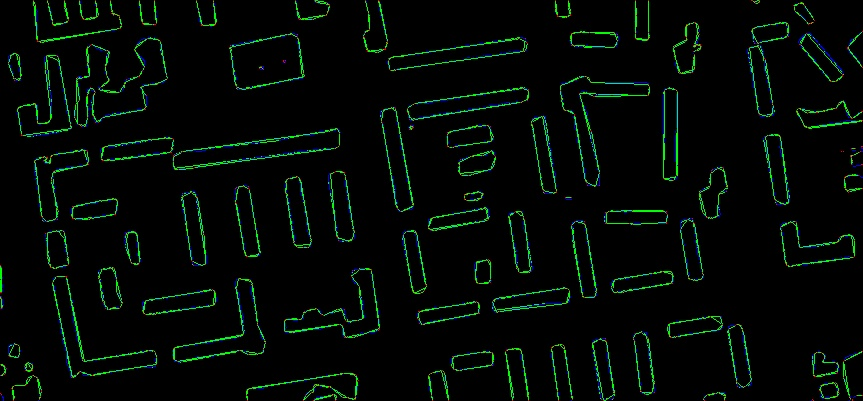
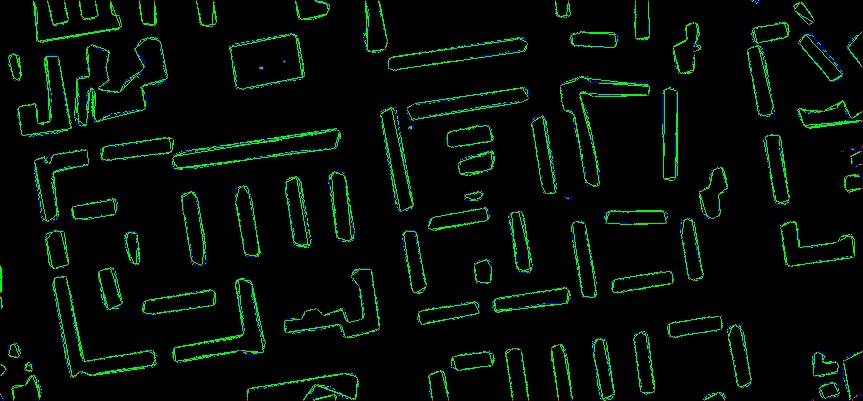
some changes

diff --git a/main.cpp b/main.cpp
@@ -37,41 +37,51 @@ void projection() {
     imshow("Canny", cannyImg);
 
     vector<vector<Point>> cannyContours;
-    findContours(cannyImg, cannyContours, RETR_TREE, CHAIN_APPROX_SIMPLE);
+    findContours(cannyImg, cannyContours, RETR_TREE, CHAIN_APPROX_NONE);
 
     Mat cannyContoursImg = Mat::zeros(img.size(), CV_8UC3);
 
-    double eps = 3;
+    // double eps = 2;
 
-    for (size_t i = 0; i < cannyContours.size(); i++) {
-        // cout << cannyContours[i] << endl;
-        drawContours(cannyContoursImg, cannyContours, (int)i, Scalar(255, 0, 0));
+    for (double eps = 1; eps <= 4; eps++) {
+        for (size_t i = 0; i < cannyContours.size(); i++) {
+            // cout << cannyContours[i] << endl;
 
-        vector<Point> experiment = cannyContours[i];
-        // cout << experiment << endl;
-        // cout << experiment.size() << endl;
-        vector<Point> result = douglasPeuckerRecr(experiment, eps);
-        // vector<Point> result = douglasPeucker(experiment, eps);
-        // cout << result << endl;
-        // cout << result2.size() << endl;
-        cout << result.size() << endl;
+            /*
+            for (int j = 0; j < cannyContours[i].size(); j++) {
+                line(cannyContoursImg, cannyContours[i][j], cannyContours[i][(j+1)%cannyContours[i].size()], Scalar(255, j, j));
+                imshow("Canny contours", cannyContoursImg);
+                waitKey(0);
+            }
+            */
 
-        int pointsLength = result.size();
-        for ( int j = 0; j < pointsLength; j++ )
-        {
-            line(cannyContoursImg, result[j], result[(j+1)%pointsLength], Scalar(0, 255, 0) );
+            drawContours(cannyContoursImg, cannyContours, (int) i, Scalar(255, 0, 0));
+
+            vector<Point> experiment = cannyContours[i];
+            // cout << experiment << endl;
+            // cout << experiment.size() << endl;
+            vector<Point> result = douglasPeuckerRecr(experiment, eps);
+            // vector<Point> result = douglasPeucker(experiment, eps);
+            // cout << result << endl;
+            // cout << result2.size() << endl;
+            // cout << result.size() << endl;
+
+            int pointsLength = result.size();
+            for (int j = 0; j < pointsLength; j++) {
+                line(cannyContoursImg, result[j], result[(j + 1) % pointsLength], Scalar(0, 255, 0));
+            }
+            for (int j = 0; j < pointsLength; j++) {
+                line(cannyContoursImg, result[j], result[j], Scalar(0, 0, 255));
+            }
+
+            cout << "orig " << experiment.size() << " dugl " << pointsLength << endl;
         }
-        for ( int j = 0; j < pointsLength; j++ )
-        {
-            line(cannyContoursImg, result[j], result[j], Scalar(0, 0, 255) );
-        }
 
-        cout << "orig " << experiment.size() << " dugl " << pointsLength << endl;
+        imshow("Canny contours", cannyContoursImg);
+
+        waitKey(0);
     }
-
-    imshow("Canny contours", cannyContoursImg);
     imwrite("../minAreaRect.jpg", cannyContoursImg);
-
     waitKey(0);
 }
 
